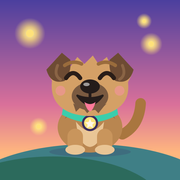
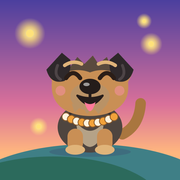
Galip sieht jetzt wie der echte Hund aus: schwarze Ohren, dunkler Sattel, Perlenkette

Changed region(s): [[0.3056, 0.4444, 0.6944, 0.8611], [0.25, 0.2778, 0.75, 0.4722]]

diff --git a/src/components/GalipMascot.vue b/src/components/GalipMascot.vue
@@ -1,6 +1,12 @@
 <script setup lang="ts">
 // Galip, the app's mascot: a loving, lively, active Border Terrier in grizzle & tan.
 // He can be seen from the front, from the side (facing right, `flip` mirrors him) and from behind.
+// Perlenkette wie im echten Leben: weiss und orange gestreift.
+const beadsFront = [[65.8,143.1],[73.4,146.6],[81,149.3],[88.6,151],[96.2,152.1],[103.8,152.1],[111.4,151],[119,149.3],[126.6,146.6],[134.2,143.1]]
+const beadsSide = [[110,113],[115,112],[122,118.5],[129.5,122.5],[137,124],[145.6,123],[151,121]]
+const beadsBack = [[65.8,136],[73.4,139.5],[81,142.2],[88.6,144],[96.2,145],[103.8,145],[111.4,144],[119,142.2],[126.6,139.5],[134.2,136]]
+const bead = (i: number) => (i % 2 ? '#f2a23a' : '#fff3df')
+
 withDefaults(
   defineProps<{ happy?: boolean; shy?: boolean; pose?: 'front' | 'side' | 'back'; flip?: boolean; walking?: boolean }>(),
   {
@@ -19,40 +25,40 @@ withDefaults(
       <path class="tail" d="M146 168 Q170 156 172 124" stroke="#a9763f" stroke-width="15" fill="none" stroke-linecap="round" />
 
       <!-- Körper und Vorderbeine -->
-      <ellipse cx="100" cy="158" rx="46" ry="36" fill="#b98650" />
-      <path d="M64 146 Q100 118 136 146 Q126 128 100 126 Q74 128 64 146 Z" fill="#6f6256" opacity="0.75" />
-      <path d="M80 150 Q100 176 120 150 Q116 184 100 186 Q84 184 80 150 Z" fill="#e9c595" />
-      <rect x="68" y="160" width="22" height="32" rx="11" fill="#c9955c" />
-      <rect x="110" y="160" width="22" height="32" rx="11" fill="#c9955c" />
-      <ellipse cx="79" cy="190" rx="14" ry="7" fill="#e9c595" />
-      <ellipse cx="121" cy="190" rx="14" ry="7" fill="#e9c595" />
+      <ellipse cx="100" cy="158" rx="46" ry="36" fill="#4f453f" />
+      <path d="M64 146 Q100 118 136 146 Q126 128 100 126 Q74 128 64 146 Z" fill="#2b2527" opacity="0.7" />
+      <path d="M80 150 Q100 176 120 150 Q116 184 100 186 Q84 184 80 150 Z" fill="#b5a287" />
+      <rect x="68" y="160" width="22" height="32" rx="11" fill="#c98f55" />
+      <rect x="110" y="160" width="22" height="32" rx="11" fill="#c98f55" />
+      <ellipse cx="79" cy="190" rx="14" ry="7" fill="#e0b47a" />
+      <ellipse cx="121" cy="190" rx="14" ry="7" fill="#e0b47a" />
 
-      <!-- Halsband mit leuchtendem Stern-Anhänger -->
-      <path d="M62 128 Q100 150 138 128 L140 140 Q100 162 60 140 Z" fill="#3bceac" />
-      <circle cx="100" cy="152" r="10" fill="#ffe27a" stroke="#3a2c5e" stroke-width="3" />
-      <path d="M100 146 L102 150.5 L107 151 L103.4 154 L104.4 159 L100 156.5 L95.6 159 L96.6 154 L93 151 L98 150.5 Z" fill="#fff6e8" />
+      <!-- Perlenkette -->
+      <circle v-for="([x, y], i) in beadsFront" :key="i" :cx="x" :cy="y" r="5.6" :fill="bead(i)" stroke="#8a5a2b" stroke-width="1.2" />
 
       <!-- Kopf mit struppigem Fell -->
       <path
         d="M46 92 L40 82 L50 84 L48 72 L58 78 L62 62 L72 72 L82 58 L92 68 L104 56 L112 68 L124 58 L130 72 L140 62 L142 78 L152 72 L150 84 L160 82 L154 94
            Q158 126 126 138 Q100 146 74 138 Q42 126 46 92 Z"
-        fill="#d4a066"
+        fill="#c98f55"
       />
+      <!-- dunkle Stirn -->
+      <path d="M48 90 L48 72 L58 78 L62 62 L72 72 L82 58 L92 68 L104 56 L112 68 L124 58 L130 72 L140 62 L142 78 L152 72 L152 90 Q126 70 100 80 Q74 70 48 90 Z" fill="#5a4a3e" />
 
       <!-- Ohren: kleine V-Form, nach vorn geklappt -->
       <g class="ear ear-left">
-        <path d="M60 52 L38 76 Q44 98 64 92 Q74 80 72 62 Z" fill="#6d4b33" />
-        <path d="M54 70 Q48 84 58 90" stroke="#8a6445" stroke-width="4" fill="none" stroke-linecap="round" />
+        <path d="M60 52 L38 76 Q44 98 64 92 Q74 80 72 62 Z" fill="#2e282a" />
+        <path d="M54 70 Q48 84 58 90" stroke="#4d4446" stroke-width="4" fill="none" stroke-linecap="round" />
       </g>
       <g class="ear ear-right">
-        <path d="M140 52 L162 76 Q156 98 136 92 Q126 80 128 62 Z" fill="#6d4b33" />
-        <path d="M146 70 Q152 84 142 90" stroke="#8a6445" stroke-width="4" fill="none" stroke-linecap="round" />
+        <path d="M140 52 L162 76 Q156 98 136 92 Q126 80 128 62 Z" fill="#2e282a" />
+        <path d="M146 70 Q152 84 142 90" stroke="#4d4446" stroke-width="4" fill="none" stroke-linecap="round" />
       </g>
 
       <!-- Schnauze: dunkle Fischotter-Schnauze -->
-      <ellipse cx="100" cy="114" rx="26" ry="20" fill="#7a5a40" />
-      <path d="M76 124 L80 136 L88 128 L96 138 L104 130 L112 138 L120 128 L124 124 Q100 138 76 124 Z" fill="#7a5a40" />
-      <ellipse cx="100" cy="100" rx="14" ry="10" fill="#241c1a" />
+      <ellipse cx="100" cy="114" rx="28" ry="20" fill="#b99266" />
+      <path d="M74 124 L78 137 L88 128 L96 139 L104 130 L112 139 L122 128 L126 124 Q100 138 74 124 Z" fill="#b99266" />
+      <ellipse cx="100" cy="100" rx="15" ry="11" fill="#241c1a" />
       <ellipse cx="95" cy="97" rx="4.5" ry="2.5" fill="#fff" opacity="0.55" />
 
       <!-- Augen und Brauen -->
@@ -67,12 +73,12 @@ withDefaults(
         <path d="M114 88 Q124 74 134 88" stroke="#2a1d17" stroke-width="6" fill="none" stroke-linecap="round" />
       </g>
       <template v-if="shy">
-        <path d="M64 74 Q76 70 88 60" stroke="#9a6c3c" stroke-width="5" fill="none" stroke-linecap="round" />
-        <path d="M112 60 Q124 70 136 74" stroke="#9a6c3c" stroke-width="5" fill="none" stroke-linecap="round" />
+        <path d="M64 74 Q76 70 88 60" stroke="#e0b47a" stroke-width="5" fill="none" stroke-linecap="round" />
+        <path d="M112 60 Q124 70 136 74" stroke="#e0b47a" stroke-width="5" fill="none" stroke-linecap="round" />
       </template>
       <template v-else>
-        <path d="M64 70 Q76 62 88 68" stroke="#9a6c3c" stroke-width="5" fill="none" stroke-linecap="round" />
-        <path d="M112 68 Q124 62 136 70" stroke="#9a6c3c" stroke-width="5" fill="none" stroke-linecap="round" />
+        <path d="M64 70 Q76 62 88 68" stroke="#e0b47a" stroke-width="5" fill="none" stroke-linecap="round" />
+        <path d="M112 68 Q124 62 136 70" stroke="#e0b47a" stroke-width="5" fill="none" stroke-linecap="round" />
       </template>
 
       <circle cx="58" cy="106" r="7" fill="#ff8fb1" opacity="0.45" />
@@ -94,50 +100,50 @@ withDefaults(
 
       <!-- Beine der fernen Seite -->
       <g class="leg leg-b">
-        <rect x="72" y="128" width="18" height="54" rx="9" fill="#a9763f" />
+        <rect x="72" y="128" width="18" height="54" rx="9" fill="#a57443" />
         <ellipse cx="81" cy="184" rx="12" ry="6" fill="#d9b88a" />
       </g>
       <g class="leg leg-a">
-        <rect x="122" y="128" width="18" height="54" rx="9" fill="#a9763f" />
+        <rect x="122" y="128" width="18" height="54" rx="9" fill="#a57443" />
         <ellipse cx="131" cy="184" rx="12" ry="6" fill="#d9b88a" />
       </g>
 
       <ellipse cx="96" cy="118" rx="58" ry="32" fill="#b98650" />
-      <path d="M44 108 Q96 72 148 108 Q96 92 44 108 Z" fill="#6f6256" opacity="0.75" />
-      <ellipse cx="140" cy="132" rx="14" ry="17" fill="#e9c595" />
+      <path d="M40 114 Q54 76 96 78 Q138 80 152 108 Q96 98 40 114 Z" fill="#4a403a" />
+      <ellipse cx="140" cy="132" rx="14" ry="17" fill="#b5a287" />
 
       <!-- Beine der nahen Seite -->
       <g class="leg leg-a">
-        <rect x="52" y="128" width="20" height="54" rx="10" fill="#c9955c" />
+        <rect x="52" y="128" width="20" height="54" rx="10" fill="#c98f55" />
         <ellipse cx="62" cy="184" rx="13" ry="6.5" fill="#e9c595" />
       </g>
       <g class="leg leg-b">
-        <rect x="130" y="128" width="20" height="54" rx="10" fill="#c9955c" />
+        <rect x="130" y="128" width="20" height="54" rx="10" fill="#c98f55" />
         <ellipse cx="140" cy="184" rx="13" ry="6.5" fill="#e9c595" />
       </g>
 
-      <!-- Hals und Halsband -->
-      <ellipse cx="126" cy="104" rx="24" ry="26" fill="#d4a066" />
-      <path d="M112 98 Q126 120 150 112 L152 124 Q122 134 100 108 Z" fill="#3bceac" />
-      <circle cx="134" cy="126" r="7" fill="#ffe27a" stroke="#3a2c5e" stroke-width="2.5" />
+      <!-- Hals und Perlenkette -->
+      <ellipse cx="126" cy="104" rx="24" ry="26" fill="#4f453f" />
+      <circle v-for="([x, y], i) in beadsSide" :key="i" :cx="x" :cy="y" r="5.2" :fill="bead(i)" stroke="#8a5a2b" stroke-width="1.2" />
 
       <!-- Kopf -->
-      <path d="M116 68 L122 54 L132 62 L140 50 L150 60 L158 54 L162 68 Q176 80 166 96 L120 104 Q106 84 116 68 Z" fill="#d4a066" />
-      <ellipse cx="142" cy="86" rx="32" ry="29" fill="#d4a066" />
-      <ellipse cx="168" cy="97" rx="22" ry="15" fill="#7a5a40" />
-      <path d="M152 106 L156 120 L162 112 L168 122 L174 112 L182 118 L184 104 Z" fill="#7a5a40" />
+      <path d="M116 68 L122 54 L132 62 L140 50 L150 60 L158 54 L162 68 Q176 80 166 96 L120 104 Q106 84 116 68 Z" fill="#c98f55" />
+      <ellipse cx="142" cy="86" rx="32" ry="29" fill="#c98f55" />
+      <path d="M114 70 L122 54 L132 62 L140 50 L150 60 L158 54 L164 70 Q150 66 140 76 Q124 74 114 70 Z" fill="#5a4a3e" />
+      <ellipse cx="168" cy="97" rx="22" ry="15" fill="#b99266" />
+      <path d="M152 106 L156 120 L162 112 L168 122 L174 112 L182 118 L184 104 Z" fill="#b99266" />
       <path d="M170 108 Q174 128 181 110 Z" fill="#ff7a9a" />
       <ellipse cx="187" cy="91" rx="7.5" ry="6.5" fill="#241c1a" />
       <ellipse cx="185" cy="89" rx="2.6" ry="1.6" fill="#fff" opacity="0.55" />
       <path d="M158 106 Q170 112 184 103" stroke="#241c1a" stroke-width="3" fill="none" stroke-linecap="round" />
       <circle cx="154" cy="78" r="6.5" fill="#2a1d17" />
       <circle cx="156.5" cy="75.5" r="2.4" fill="#fff" />
-      <path v-if="shy" d="M144 70 Q154 68 165 58" stroke="#9a6c3c" stroke-width="4" fill="none" stroke-linecap="round" />
-      <path v-else d="M144 67 Q154 61 165 67" stroke="#9a6c3c" stroke-width="4" fill="none" stroke-linecap="round" />
+      <path v-if="shy" d="M144 70 Q154 68 165 58" stroke="#e0b47a" stroke-width="4" fill="none" stroke-linecap="round" />
+      <path v-else d="M144 67 Q154 61 165 67" stroke="#e0b47a" stroke-width="4" fill="none" stroke-linecap="round" />
       <circle cx="146" cy="94" r="5" fill="#ff8fb1" opacity="0.4" />
       <g class="ear ear-left">
-        <path d="M134 54 L114 70 Q112 94 134 96 Q148 84 146 60 Z" fill="#6d4b33" />
-        <path d="M126 70 Q122 84 132 90" stroke="#8a6445" stroke-width="4" fill="none" stroke-linecap="round" />
+        <path d="M134 54 L114 70 Q112 94 134 96 Q148 84 146 60 Z" fill="#2e282a" />
+        <path d="M126 70 Q122 84 132 90" stroke="#4d4446" stroke-width="4" fill="none" stroke-linecap="round" />
       </g>
     </g>
 
@@ -145,20 +151,20 @@ withDefaults(
     <template v-else>
       <path class="tail" d="M122 168 Q152 152 150 112" stroke="#a9763f" stroke-width="15" fill="none" stroke-linecap="round" />
       <ellipse cx="100" cy="152" rx="48" ry="38" fill="#b98650" />
-      <path d="M58 142 Q100 108 142 142 Q100 126 58 142 Z" fill="#6f6256" opacity="0.75" />
-      <ellipse class="paw paw-a" cx="72" cy="186" rx="16" ry="8" fill="#c9955c" />
-      <ellipse class="paw paw-b" cx="128" cy="186" rx="16" ry="8" fill="#c9955c" />
-      <path d="M62 128 Q100 150 138 128 L140 140 Q100 162 60 140 Z" fill="#3bceac" />
+      <path d="M52 156 Q54 108 100 108 Q146 108 148 156 Q100 126 52 156 Z" fill="#4a403a" />
+      <ellipse class="paw paw-a" cx="72" cy="186" rx="16" ry="8" fill="#c98f55" />
+      <ellipse class="paw paw-b" cx="128" cy="186" rx="16" ry="8" fill="#c98f55" />
+      <circle v-for="([x, y], i) in beadsBack" :key="i" :cx="x" :cy="y" r="5.6" :fill="bead(i)" stroke="#8a5a2b" stroke-width="1.2" />
       <path
         d="M46 88 L40 78 L50 80 L48 68 L58 74 L62 58 L72 68 L82 54 L92 64 L104 52 L112 64 L124 54 L130 68 L140 58 L142 74 L152 68 L150 80 L160 78 L154 90
            Q158 122 126 134 Q100 142 74 134 Q42 122 46 88 Z"
-        fill="#d4a066"
+        fill="#5a4a3e"
       />
       <g class="ear ear-left">
-        <path d="M60 48 L38 72 Q44 94 64 88 Q74 76 72 58 Z" fill="#6d4b33" />
+        <path d="M60 48 L38 72 Q44 94 64 88 Q74 76 72 58 Z" fill="#2e282a" />
       </g>
       <g class="ear ear-right">
-        <path d="M140 48 L162 72 Q156 94 136 88 Q126 76 128 58 Z" fill="#6d4b33" />
+        <path d="M140 48 L162 72 Q156 94 136 88 Q126 76 128 58 Z" fill="#2e282a" />
       </g>
     </template>
   </svg>
